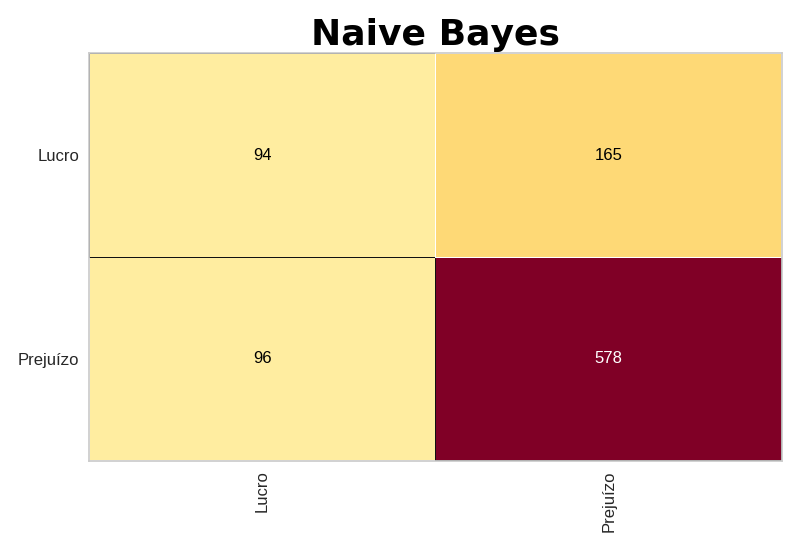
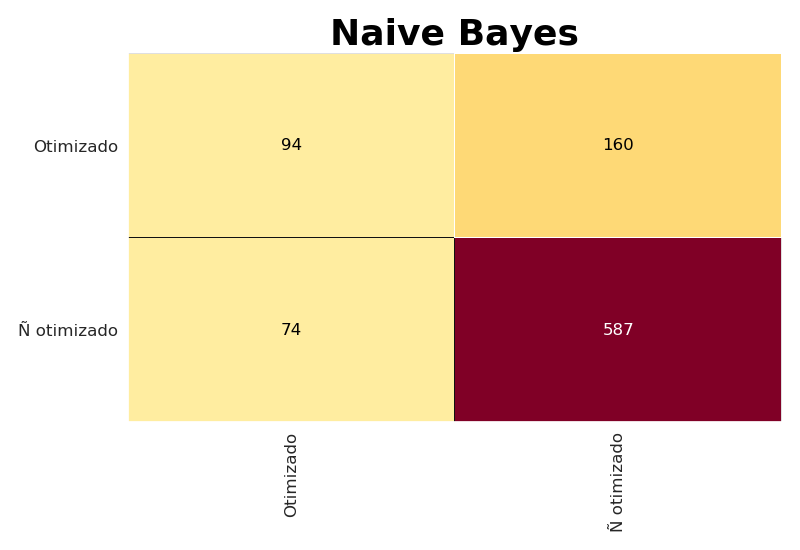
Adicionando algumas implementações referentes às visualização de dados e one hot encoder antes de treinar o modelo

diff --git a/diagnostico_oportunidade.py b/diagnostico_oportunidade.py
@@ -30,23 +30,35 @@ sns.set_style('darkgrid')
 
 
 #Para codificar os dados categóricos pois o algorítmo não suporta str, como no R.
-from sklearn.preprocessing import LabelEncoder
+from sklearn.preprocessing import LabelEncoder, OneHotEncoder
+from sklearn.compose import make_column_transformer
 
 #Divisão dados de treino e teste
 from sklearn.model_selection import train_test_split
 
+#Florestas Aleatórias
+
+from sklearn.ensemble import RandomForestClassifier
+
+
 #Método de Naive Bayes
 from sklearn.naive_bayes import GaussianNB
 
+#Taxa de acerto e de erro
+
+from sklearn.metrics import accuracy_score
+
+#Visualizaremos a matriz de confusão através da Yellow Brick
+from yellowbrick.classifier import ConfusionMatrix
 
 
 
 
-
+#Tratamento dos Dados
 
 #+++++++++++++++++++++++++++++++++++++++++++++++++++++++++++++++++++++
 
-#Seleção de Atributos
+
 
 #Analisar o head do Data Frame
 
@@ -101,7 +113,8 @@ def heatmap(df,label='heatmap'):
 	plot = sns.heatmap(crrdf,cmap='viridis').set_title('Mapa de Calor - Correlação Entre Dados', fontdict = font_title)
 	plot.get_figure().savefig(label+'.png')
 
-heatmap(df)
+#heatmap(df)
+
 plt.show()
 
 def pairplots(df,hue=False,label=''):
@@ -127,6 +140,98 @@ df2['Dia'] = df2['Data/Hora Dia'].apply(lambda x: x.day)
 
 df2.drop('Data/Hora Dia',axis=1,inplace=True)
 
+#criar terceiro data frame
+
+
+#+++++++++++++++++++++++++++++++++++++++++++++++++++++++++++++++++++++++++++++++++++++++++++++++++++++++++++++++++++++++++++++++
+#+++++++++++++++++++++++++++++++++++++++++++++++++++++++++++++++++++++++++++++++++++++++++++++++++++++++++++++++++++++++++++++++
+#+++++++++++++++++++++++++++++++++++++++++++++++++++++++++++++++++++++++++++++++++++++++++++++++++++++++++++++++++++++++++++++++
+
+
+#Preparação para o Categorical Encoding - v2
+
+
+df3 = df.drop(['ID', 'D#', 'Código',  'Código 2', 'Código 3','Código 4'],axis=1)
+
+#Box plot para verificar outliers
+
+sns.boxplot(data=df3.drop(['Data/Hora Dia','Tipo de venda', 'UF', 'Produto 1', 'Produto 2', 'ABC'],axis=1))
+plt.title('Box Plot Venda Bruta')
+plt.savefig('Box plot venda.png')
+plt.show()
+
+#remover outliers
+#One Hot Encoding:
+
+#antes remover os valores '[Gr.Cliente Não Encontrado]' do tipo de venda em df3
+
+df3 = df3[df3['Tipo de venda'].apply(lambda x: x!='[Gr.Cliente Não Encontrado]')]
+
+#verificar se as outras colunas possuem tipos de entradas incomuns
+
+
+df3 = df3[df3['Tipo de venda'].apply(lambda x: type(x)==np.str)]
+df3 = df3[df3['UF'].apply(lambda x: type(x)==np.str)]
+df3 = df3[df3['Família'].apply(lambda x: type(x)==np.str)]
+df3 = df3[df3['Produto 1'].apply(lambda x: type(x)==np.str)]
+
+
+#Remover outliers em atributos categóricos (os que só aparecem uma vez ou são desconhecidos)
+
+df3 = df3[df3['Produto 1'].apply(lambda x: x!='[Gr Segmento Não Encontrado]')]
+
+#df3 = df3[df3['Produto 2'].apply(lambda x: x!='[Cultura Não Encontrada]')]
+#df3 = df3[df3['Produto 2'].apply(lambda x: x!='[Cultura Não Especificada]')]
+
+df3 = df3[df3['Produto 2'].apply(lambda x: False if x=='[Cultura Não Encontrada]' else (False if x=='[Cultura Não Especificada]' else True))]
+
+
+
+df3 = df3[df3['Venda Bruta 1']!=df3['Venda Bruta 1'].max()]
+df3 = df3[df3['Venda Bruta 2']!=df3['Venda Bruta 2'].max()]
+
+categorical=df3[['Tipo de venda', 'UF', 'Família', 'Produto 1', 'ABC', 'Produto 2']]
+
+
+
+
+df3['Mês'] = df3['Data/Hora Dia'].apply(lambda x: x.month)
+df3['Dia'] = df3['Data/Hora Dia'].apply(lambda x: x.day)
+
+#df2.rename(columns={'Data/Hora Dia':'Mês'},inplace=True)
+
+#remover coluna datahoradia
+
+df3.drop('Data/Hora Dia',axis=1,inplace=True)
+
+
+
+
+#Label Encoding: preparar ABC
+
+df3 = df3[df3['ABC'].apply(lambda x: False if type(x)!= np.str else True)]
+
+
+
+#One Hot Encoding: contar categorias
+
+class df3info:
+	tipo_venda = df3['Tipo de venda'].value_counts()
+	Produto_1 = df3['Produto 1'].value_counts()
+	Produto_2 = df3['Produto 2'].value_counts()
+
+# 'Tipo de venda' possui 4 tipos diferentes de categorias
+
+df3info.tipo_venda
+df3info.Produto_1
+df3info.Produto_2
+
+
+#+++++++++++++++++++++++++++++++++++++++++++++++++++++++++++++++++++++++++++++++++++++++++++++++++++++++++++++++++++++++++++++++
+#+++++++++++++++++++++++++++++++++++++++++++++++++++++++++++++++++++++++++++++++++++++++++++++++++++++++++++++++++++++++++++++++
+#+++++++++++++++++++++++++++++++++++++++++++++++++++++++++++++++++++++++++++++++++++++++++++++++++++++++++++++++++++++++++++++++
+
+
 
 #Somar as vendas brutas e remover as parciais
 
@@ -135,12 +240,19 @@ df2['Lucro'] = df2['Venda Bruta 1']+df2['Venda Bruta 2']+df2['Venda Bruta 3']
 
 df2.drop(['Venda Bruta 1','Venda Bruta 2','Venda Bruta 3','Família'],axis=1,inplace=True)
 
-#Lucro ou prejuízo
+
+#Lucro otimizado ou não
 
 
-df2['Lucro']=df2['Lucro'].apply(lambda x: 'Lucro' if x>= df2['Lucro'].mean() else 'Prejuízo')
+df2['Lucro']=df2['Lucro'].apply(lambda x: 'Otimizado' if x>= df2['Lucro'].mean() else 'Ñ otimizado')
 
+#Remover itens que aparecem poucas vezes
 
+df2 = df2[df2['Produto 1'].apply(lambda x: x!= 'Growth Regulator')]
+
+#Remover dados irrelevantes dos produtos 2: cultura não encontrada e não especificada
+
+df2 = df2[df2['Produto 2'].apply(lambda x: False if x=='[Cultura Não Encontrada]' else (False if x=='[Cultura Não Especificada]' else True))]
 #verificar plot de pares
 
 #pairplots(df2,hue='ABC',label='ABC')
@@ -153,10 +265,8 @@ df2['Lucro']=df2['Lucro'].apply(lambda x: 'Lucro' if x>= df2['Lucro'].mean() els
 plt.show()
 
 #+++++++++++++++++++++++++++++++++++++++++++++++++++++++++++++++++++++++++++++++++++++++++++++++++++++++++++++++++++++++++++++++
-
-
-
-#+++++++++++++++++++++++++++++++++++++++++++++++++++++++++++++++++++++++++++++++++++++++++++++++++++++++++++++++++++++++++++
+#+++++++++++++++++++++++++++++++++++++++++++++++++++++++++++++++++++++++++++++++++++++++++++++++++++++++++++++++++++++++++++++++
+#+++++++++++++++++++++++++++++++++++++++++++++++++++++++++++++++++++++++++++++++++++++++++++++++++++++++++++++++++++++++++++++++
 
 #Modelo de Classificação
 
@@ -203,6 +313,17 @@ for n in range(5):
 X_treinamento, X_teste, Y_treinamento, Y_teste = train_test_split(previsores,classe,test_size=.3,random_state=3452)
 
 
+
+
+
+
+
+
+
+
+
+
+
 #Naive Bayes
 
 naive_bayes = GaussianNB()
@@ -217,20 +338,14 @@ naive_bayes.fit(X_treinamento,Y_treinamento)
 previsao = naive_bayes.predict(X_teste)
 
 
-#Taxa de acerto e de erro
-
-from sklearn.metrics import accuracy_score
-
 
 taxa_acerto = (accuracy_score(Y_teste, previsao))*100
 taxa_erro = (1 - taxa_acerto/100)*100
 
 
-print('\n\n\n taxa de acerto do modelo de Naive Bayes: {}% \n---------------------\n taxa de erro do modelo de Naive Bayes: {}%\n\n\n'.format(taxa_acerto,taxa_erro))
+print('\n\n\n taxa de acerto do modelo de Naive Bayes: {}% \n---------------------\n taxa de erro do modelo de Naive Bayes: {}%\n\n\n'.format(round(taxa_acerto,2),round(taxa_erro,2)))
 
-#Visualizaremos a matriz de confusão através da Yellow Brick
 
-from yellowbrick.classifier import ConfusionMatrix
 
 v = ConfusionMatrix(GaussianNB())
 v.fit(X_treinamento,Y_treinamento)
@@ -244,9 +359,9 @@ plt.show()
 
 #Da mesma forma pelo método de florestas aleatórias
 
-from sklearn.ensemble import RandomForestClassifier
 
-floresta = RandomForestClassifier(n_estimators = 200)
+
+floresta = RandomForestClassifier(n_estimators = 500)
 
 floresta.fit(X_treinamento,Y_treinamento)
 
@@ -261,10 +376,85 @@ plt.show()
 taxa_acerto2 = (accuracy_score(Y_teste, previsoes2))*100
 taxa_erro2 = (1-taxa_acerto2/100)*100
 
-print('\n\n\n taxa de acerto do modelo de Florestas Aleatórias: {}% \n---------------------\n taxa de erro do modelo de: {}%\n\n\n'.format(taxa_acerto,taxa_erro))
+print('\n\n\n taxa de acerto do modelo de Florestas Aleatórias: {}% \n---------------------\n taxa de erro do modelo de: {}%\n\n\n'.format(round(taxa_acerto,2),round(taxa_erro,2)))
 
 #Da mesma forma podemos realizar os métodos de predição para outros dados categóricos do Data Base e a partir disso realizar um diagnóstico de oportunidade.
 
 #Devido à falta de tempo e às dúvidas que tive sobre os dados dispostos na tabela (cujos atributos estavam vazios, consegui chegar até aqui)
 
 #Poderíamos adotar outros métodos como o de seleção de atributos, mas os resultados estão bem próximos, talvez o modelo esteja super ajustado.
+
+
+
+
+
+
+
+
+
+
+
+
+
+######### 	IMPLEMENTAÇÃO ##########
+
+#Novo modelo
+
+#para o novo modelo levantaremos em conta as oportunidades de venda que causaram prejuízo ou não, tomando em conta que o valor líquido da venda é dada pela somatória do venda bruta 1, 2 e 3.
+
+df3['Lucro'] = df3['Venda Bruta 1']+df3['Venda Bruta 2']+df3['Venda Bruta 3']
+
+#Levantando os valores da tabela e levando em conta
+
+prev = df3.drop(['Venda Bruta 1', 'Venda Bruta 2', 'Venda Bruta 3', 'Lucro'], axis=1)
+previsores2 = df3.drop(['Venda Bruta 1', 'Venda Bruta 2', 'Venda Bruta 3', 'Lucro'], axis=1).values
+
+
+#Label Encoder em ABC
+for n in [1,2,4,3,5]:
+	previsores2[:,n] = labelencoder.fit_transform(previsores2[:,n])
+
+#prev = pd.DataFrame(previsores2)
+
+#One Hot Encoder no restante
+
+
+onehotencoder = make_column_transformer( (OneHotEncoder(categories='auto', sparse=False),[0]), remainder='passthrough')
+
+X = onehotencoder.fit_transform(previsores2)
+
+
+classe2 = df3['Lucro'].apply(lambda x: 0 if x <= df3['Lucro'].mean() else 1)
+
+
+
+X_treino2, X_teste2, Y_treino2, Y_teste2 = train_test_split(X,classe2, test_size=.3, random_state=3242)
+
+
+
+#Treinamento do modelo
+
+nb2 = GaussianNB()
+
+nb2.fit(X_treino2,Y_treino2)
+
+prev2 = nb2.predict(X_teste2)
+
+taxa_acerto2 = (accuracy_score(Y_teste2, prev2))*100
+taxa_erro2 = (1 - taxa_acerto2/100)*100
+
+
+print('\n\n\n taxa de acerto do modelo de Naive Bayes: {}% \n---------------------\n taxa de erro do modelo de Naive Bayes: {}%\n\n\n'.format(round(taxa_acerto2,2),round(taxa_erro2,2)))
+
+
+v2 = ConfusionMatrix(GaussianNB())
+v2.fit(X_treino2,Y_treino2)
+v2.score(X_teste2,Y_teste2)
+plt.title('Naive Bayes',fontdict=font_title)
+plt.tight_layout()
+plt.savefig('ConfusionMatrix Naive Bayes 2.png')
+#v.poof()
+
+#plt.show()
+
+
